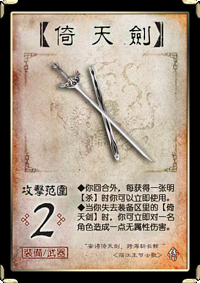
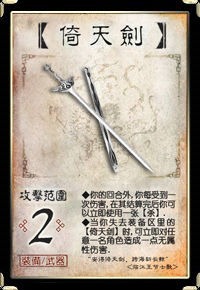
Modified the skill of Yitian sword

diff --git a/src/yitianpackage.cpp b/src/yitianpackage.cpp
@@ -10,56 +10,17 @@
 class YitianSwordSkill : public WeaponSkill{
 public:
     YitianSwordSkill():WeaponSkill("yitian_sword"){
-        events << CardGot;
+        events << DamageComplete;
     }
 
-    virtual bool trigger(TriggerEvent, ServerPlayer *player, QVariant &data) const{
-        CardMoveStruct move = data.value<CardMoveStruct>();
+    virtual bool trigger(TriggerEvent, ServerPlayer *player, QVariant &) const{
+        if(player->getPhase() != Player::NotActive)
+           return false;
 
-        if(!move.open)
-            return false;
-
-        const Card *card = Sanguosha->getCard(move.card_id);
-        Room *room = player->getRoom();
-        if(room->getCurrent() != player && card->inherits("Slash") && move.to_place == Player::Hand){
-            QString pattern = QString("@@yitian-%1").arg(move.card_id);
-            room->askForUseCard(player, pattern, "@yitian-sword");
-        }
+        if(player->askForSkillInvoke("yitian"))
+            player->getRoom()->askForUseCard(player, "slash", "yitian-slash");
 
         return false;
-    }
-};
-
-class YitianSwordViewAsSkill: public ViewAsSkill{
-public:
-    YitianSwordViewAsSkill():ViewAsSkill("yitian_sword"){
-
-    }
-
-    virtual bool isEnabledAtPlay() const{
-        return false;
-    }
-
-    virtual bool isEnabledAtResponse() const{
-        return ClientInstance->card_pattern.startsWith("@@yitian-");
-    }
-
-    virtual bool viewFilter(const QList<CardItem *> &selected, const CardItem *to_select) const{
-        if(!selected.isEmpty())
-            return false;
-
-        QString pattern = ClientInstance->card_pattern;
-        pattern.remove("@@yitian-");
-        int card_id = pattern.toInt();
-
-        return to_select->getCard()->getId() == card_id;
-    }
-
-    virtual const Card *viewAs(const QList<CardItem *> &cards) const{
-        if(cards.length() != 1)
-            return NULL;
-
-        return cards.first()->getCard();
     }
 };
 
@@ -68,7 +29,6 @@ YitianSword::YitianSword(Suit suit, int number)
 {
     setObjectName("yitian_sword");
     skill = new YitianSwordSkill;
-    attach_skill = true;
 }
 
 void YitianSword::onMove(const CardMoveStruct &move) const{
@@ -1650,7 +1610,7 @@ YitianPackage::YitianPackage()
     dengshizai->addSkill(new Zhenggong);
     dengshizai->addSkill(new Toudu);
 
-    skills << new YitianSwordViewAsSkill << new LianliSlashViewAsSkill;
+    skills << new LianliSlashViewAsSkill;
 
     addMetaObject<ChengxiangCard>();
     addMetaObject<JuejiCard>();
